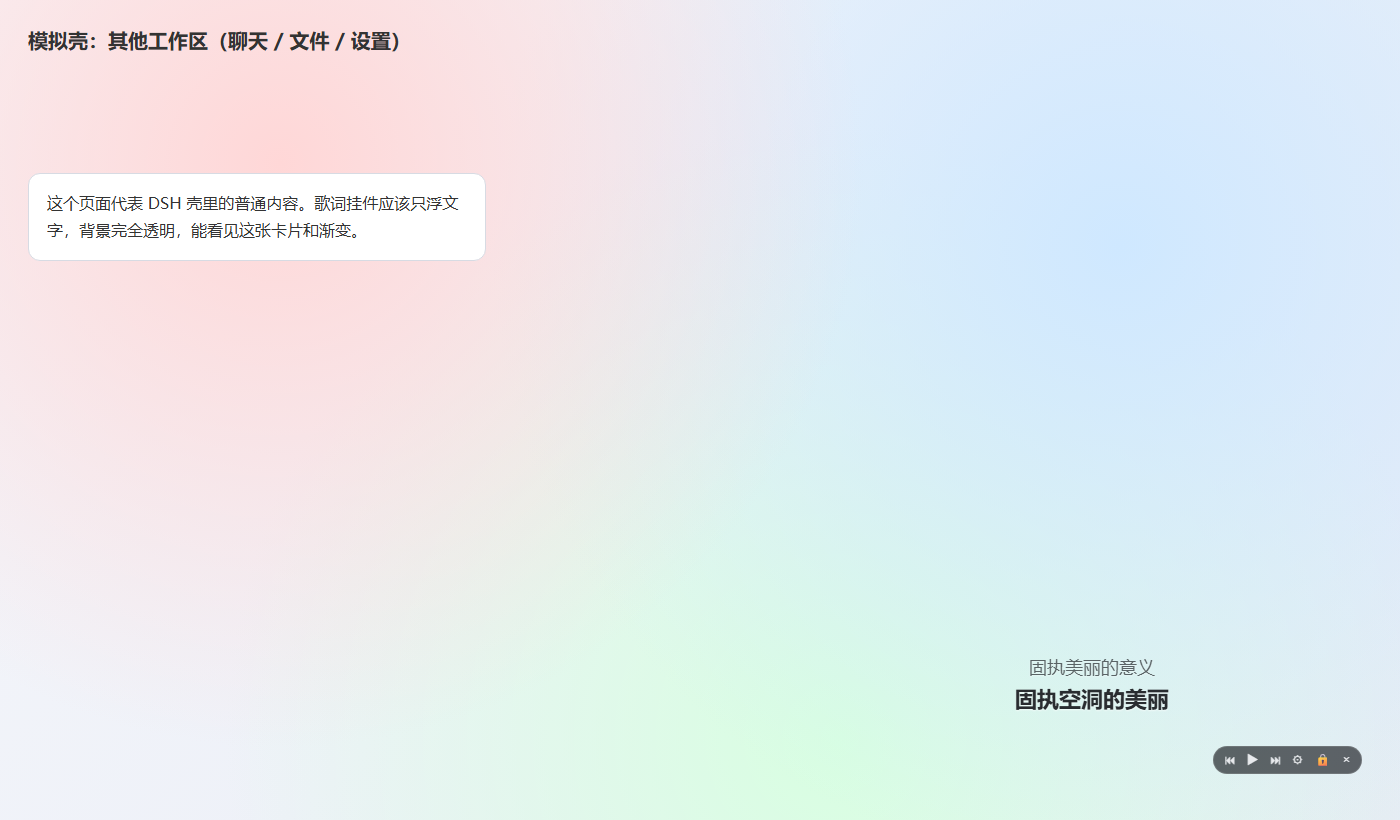
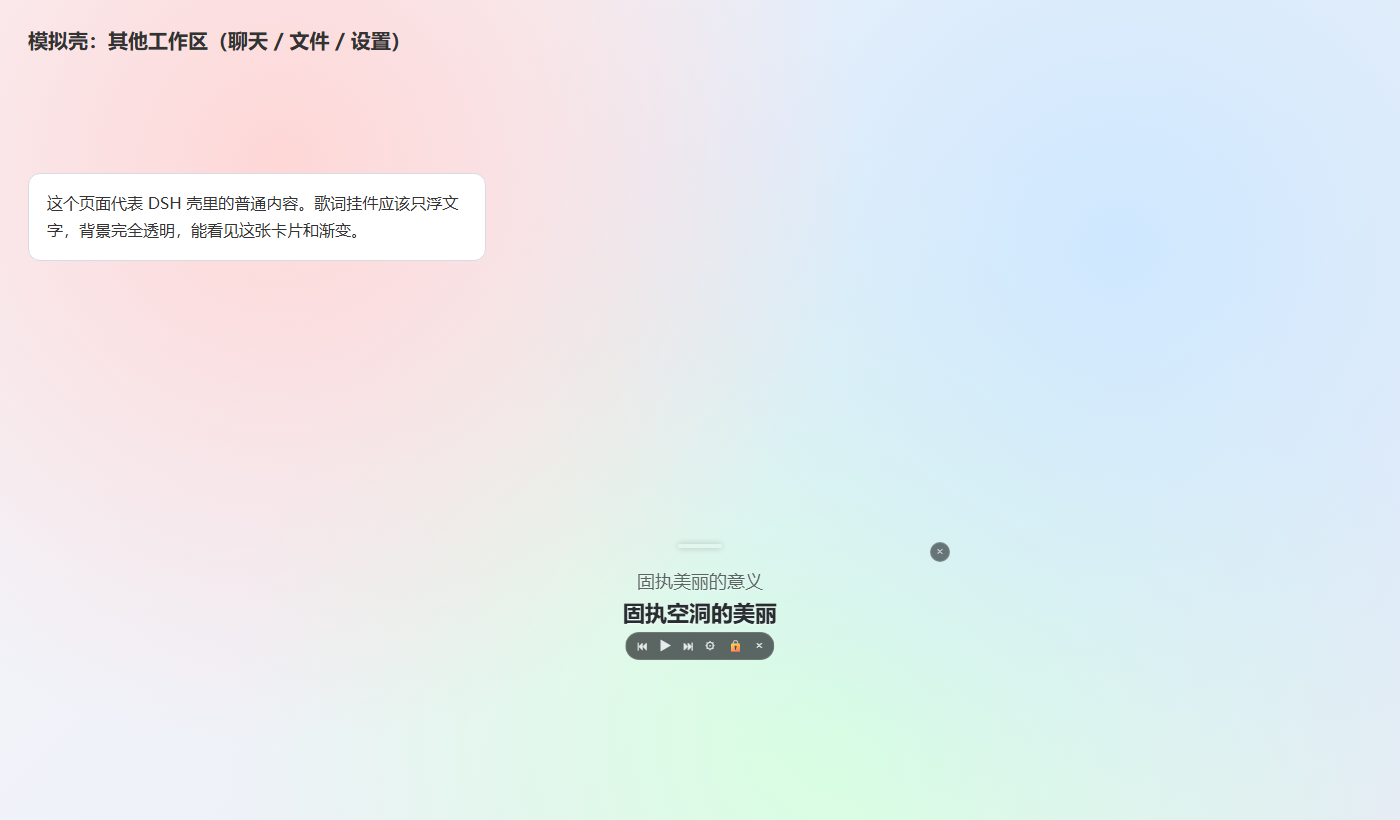
fix(desktop-lyrics): 窗口按歌词自适应尺寸并避开浮空岛，打开挂件前关闭旧 PiP

diff --git a/lib/desktop-lyrics/index.html b/lib/desktop-lyrics/index.html
@@ -25,6 +25,7 @@
       text-shadow: 0 1px 3px rgba(0, 0, 0, 0.85), 0 0 12px rgba(0, 0, 0, 0.45);
     }
     #lines div {
+      width: max-content; max-width: 100%; margin: 0 auto;
       white-space: nowrap; overflow: hidden; text-overflow: ellipsis;
       transition: color 160ms ease, opacity 160ms ease;
     }
@@ -118,6 +119,20 @@
       }
       titleEl.textContent = next.title || '';
       playBtn.textContent = next.playing ? '⏸' : '▶';
+      requestAnimationFrame(() => requestAnimationFrame(fitWindow));
+    }
+
+    /* The window is sized to the lyrics instead of a fixed 900×174 box: a wide
+       empty box made the widget look "huge and misaligned" on screen. */
+    function fitWindow() {
+      const lines = Array.from(linesEl.children);
+      if (!lines.length) return;
+      let width = 320;
+      for (const el of lines) width = Math.max(width, Math.ceil(el.offsetWidth || 0));
+      width = Math.min(900, Math.max(340, width + 40));
+      const lineHeight = lines.reduce((sum, el) => sum + (el.offsetHeight || 0), 0);
+      const height = Math.min(420, Math.max(92, lineHeight + 42));
+      if (typeof api.resize === 'function') api.resize(width, height).catch(() => {});
     }
 
     api.onUpdate(render);

diff --git a/lib/desktop-lyrics/main.js b/lib/desktop-lyrics/main.js
@@ -261,6 +261,22 @@ function createWindow() {
 }
 
 ipcMain.handle('ncm:lock', (_event, next) => { applyLock(next); return { ok: true, locked }; });
+
+ipcMain.handle('ncm:resize', (_event, size) => {
+  if (!win || win.isDestroyed()) return { ok: false };
+  const width = Math.round(Math.min(960, Math.max(320, Number(size?.width) || 0)));
+  const height = Math.round(Math.min(460, Math.max(88, Number(size?.height) || 0)));
+  if (width <= 0 || height <= 0) return { ok: false };
+  const b = win.getBounds();
+  // Keep the top-left corner anchored; pull the window back on-screen if a
+  // narrower box would otherwise run off the right/bottom edge.
+  const display = screen.getDisplayNearestPoint({ x: b.x, y: b.y });
+  const wa = display.workArea;
+  const x = Math.max(wa.x + 8, Math.min(b.x, wa.x + wa.width - width - 8));
+  const y = Math.max(wa.y + 8, Math.min(b.y, wa.y + wa.height - height - 8));
+  win.setBounds({ x, y, width, height });
+  return { ok: true, width, height };
+});
 ipcMain.handle('ncm:move', (_event, dx, dy) => {
   if (!win) return { ok: false };
   const [x, y] = win.getPosition();

diff --git a/lib/client.js b/lib/client.js
@@ -829,8 +829,8 @@ window.__ModuleLoader__.load({
         host.style.cssText = [
           'position:fixed', 'z-index:2147483000', 'display:flex', 'flex-direction:column',
           'justify-content:center', `width:${width}px`, `height:${height}px`,
-          `left:${p.left == null ? Math.max(16, window.innerWidth - width - 28) : p.left}px`,
-          `top:${p.top == null ? Math.max(16, Math.round(window.innerHeight * 0.72)) : p.top}px`,
+          `left:${p.left == null ? Math.max(16, Math.round(window.innerWidth / 2 - width / 2)) : p.left}px`,
+          `top:${p.top == null ? Math.max(16, window.innerHeight - height - 132) : p.top}px`,
           'background:transparent', 'border-radius:0', 'color:#fff',
           'font-family:"Microsoft YaHei UI","PingFang SC","Microsoft YaHei",system-ui,sans-serif',
           'user-select:none', 'pointer-events:none',

diff --git a/lib/panel.html b/lib/panel.html
@@ -1816,6 +1816,9 @@
       // 悬浮歌词窗：优先进 Document PiP（真正的独立小窗、常在前），
       // 宿主不给就退到普通弹出窗，再不行退到页内浮层。播放始终不在这里。
       function openLyricsFloat() {
+        // A PiP window left over from an older build would sit on top of the
+        // shell widget — close it before mounting the new one.
+        try { window.documentPictureInPicture?.window?.close(); } catch (e) {}
         const url = `${BASE}/lyric-window?base=${encodeURIComponent(BASE)}`;
         // 面板本身是壳里的 iframe：只有把浮窗挂到壳文档上，它才能跨面板存活。
         if (window.parent && window.parent !== window) {

diff --git a/lib/ui/mini.js b/lib/ui/mini.js
@@ -353,6 +353,8 @@
   ui.queue.addEventListener('click', function () { window.location.href = BASE + '/panel'; });
   var lyricWin = null;
   function openLyricsWindow() {
+    // A stale Document PiP window (older builds) would float over the shell widget.
+    try { if (window.documentPictureInPicture && window.documentPictureInPicture.window) window.documentPictureInPicture.window.close(); } catch (e) {}
     var url = BASE + '/lyric-window?base=' + encodeURIComponent(BASE);
     /* 在 DSH 壳里，页面本身就是壳的 iframe：请壳把它挂到壳文档上，跨面板常驻。 */
     if (window.parent && window.parent !== window) {

diff --git a/lib/desktop-lyrics/preload.js b/lib/desktop-lyrics/preload.js
@@ -12,6 +12,7 @@ contextBridge.exposeInMainWorld('ncmDesktop', {
     return () => ipcRenderer.removeListener('ncm:hover', handler);
   },
   lock(next) { return ipcRenderer.invoke('ncm:lock', Boolean(next)); },
+  resize(width, height) { return ipcRenderer.invoke('ncm:resize', { width, height }); },
   interactive(next) { return ipcRenderer.invoke('ncm:interactive', Boolean(next)); },
   control(action) { return ipcRenderer.invoke('ncm:control', String(action)); },
   close() { return ipcRenderer.invoke('ncm:close'); },
